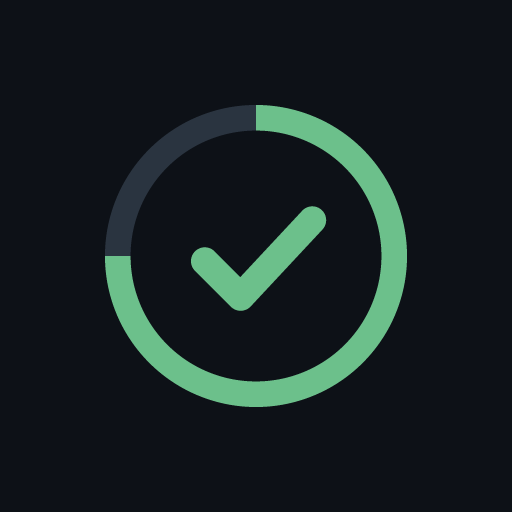
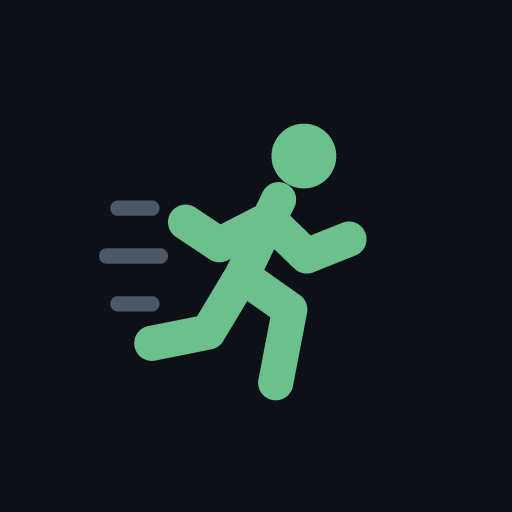
Reconnexion Campus depuis un téléphone (favori) et icône coureur (D141)

Changed region(s): [[0.1875, 0.1875, 0.8125, 0.8125]]

diff --git a/web/src/data/Data.tsx b/web/src/data/Data.tsx
@@ -194,12 +194,45 @@ const CAMPUS_SNIPPET =
   "localStorage.removeItem('atk');localStorage.removeItem('rtk');location.replace('about:blank')";
 
 /**
- * Reconnexion Campus depuis n'importe quel navigateur, sans script (D133) : session dédiée ouverte dans une
- * fenêtre privée (D117), jetons copiés par le snippet puis collés ici ; le serveur les vérifie avant de les garder.
+ * Même chose en favori pour un téléphone, qui n'a pas de console (D141) : le favori se lance depuis la barre
+ * d'adresse. Pas de copy() hors console : presse-papiers, sinon fenêtre où copier le texte à la main.
+ */
+const CAMPUS_BOOKMARKLET =
+  'javascript:(()=>{' +
+  "const t=JSON.stringify({atk:localStorage.getItem('atk'),rtk:localStorage.getItem('rtk')});" +
+  "if(!localStorage.getItem('atk')){alert('Connecte-toi d’abord à Campus sur cette page.');return}" +
+  "const fin=()=>{localStorage.removeItem('atk');localStorage.removeItem('rtk');location.replace('about:blank')};" +
+  "navigator.clipboard.writeText(t).then(()=>{alert('Jetons copiés : colle-les dans CoachChris.');fin()}," +
+  "()=>{prompt('Copie ce texte puis colle-le dans CoachChris :',t);fin()})})()";
+
+const isPhone = () => typeof matchMedia === 'function' && matchMedia('(pointer: coarse)').matches;
+
+function CopyButton({ text, label = 'Copier' }: { text: string; label?: string }) {
+  const [copied, setCopied] = useState(false);
+  return (
+    <button
+      className="btn small"
+      type="button"
+      onClick={() =>
+        void navigator.clipboard.writeText(text).then(
+          () => setCopied(true),
+          () => setCopied(false),
+        )
+      }
+    >
+      {copied ? 'Copié' : label}
+    </button>
+  );
+}
+
+/**
+ * Reconnexion Campus depuis n'importe quel navigateur, sans script (D133) : session dédiée (D117), jetons copiés
+ * par le snippet (ordinateur) ou le favori (téléphone, D141) puis collés ici ; le serveur les vérifie avant de
+ * les garder.
  */
 function CampusReconnect({ onDone }: { onDone: () => void }) {
   const [pasted, setPasted] = useState('');
-  const [copied, setCopied] = useState(false);
+  const [phone, setPhone] = useState(isPhone);
   const [state, setState] = useState<{ busy: boolean; ok?: boolean; message?: string }>({ busy: false });
   const send = async () => {
     setState({ busy: true });
@@ -217,66 +250,103 @@ function CampusReconnect({ onDone }: { onDone: () => void }) {
       setState({ busy: false, ok: false, message: e instanceof Error ? e.message : String(e) });
     }
   };
+  const campus = (
+    <a href="https://app.campus.coach" target="_blank" rel="noreferrer">
+      app.campus.coach
+    </a>
+  );
   return (
     <div className="reauth">
-      <ol>
-        <li>
-          Ouvre une <b>fenêtre de navigation privée</b> et connecte-toi sur{' '}
-          <a href="https://app.campus.coach" target="_blank" rel="noreferrer">
-            app.campus.coach
-          </a>
-          .
-        </li>
-        <li>
-          Dans cette fenêtre, ouvre la console (F12 › Console) et colles-y cette ligne. Elle copie tes jetons,
-          les retire de la page et quitte Campus (page blanche) :
-          <div className="cmd">
-            <code>{CAMPUS_SNIPPET}</code>
-            <button
-              className="btn small"
-              type="button"
-              onClick={() =>
-                void navigator.clipboard.writeText(CAMPUS_SNIPPET).then(
-                  () => setCopied(true),
-                  () => setCopied(false),
-                )
-              }
-            >
-              {copied ? 'Copié' : 'Copier'}
-            </button>
-          </div>
-        </li>
-        <li>
-          Ferme la fenêtre privée <b>sans te déconnecter</b> de Campus, puis colle ici (rien ne s’affiche) :
-          <div className="cmd">
-            <input
-              type="password"
-              aria-label="Jetons Campus copiés"
-              autoComplete="off"
-              spellCheck={false}
-              value={pasted}
-              onChange={(e) => setPasted(e.target.value)}
-            />
-            <button
-              className="btn small primary"
-              type="button"
-              disabled={!pasted || state.busy}
-              onClick={() => void send()}
-            >
-              {state.busy ? 'Vérification…' : 'Reconnecter'}
-            </button>
-          </div>
-        </li>
-      </ol>
+      <div className="seg" role="group" aria-label="Appareil">
+        <button type="button" aria-pressed={!phone} onClick={() => setPhone(false)}>
+          Ordinateur
+        </button>
+        <button type="button" aria-pressed={phone} onClick={() => setPhone(true)}>
+          Téléphone
+        </button>
+      </div>
+      {phone ? (
+        <ol>
+          <li>
+            <b>Une seule fois</b> : crée un favori « cc-campus » dont l’adresse est ce code. Copie-le, puis
+            dans Chrome : ⋮ › ☆ (sur n’importe quelle page) › Modifier › nom <code>cc-campus</code>, adresse :
+            colle le code.
+            <div>
+              <CopyButton text={CAMPUS_BOOKMARKLET} label="Copier le code du favori" />
+            </div>
+          </li>
+          <li>Dans Chrome (onglet privé de préférence), ouvre {campus} et connecte-toi.</li>
+          <li>
+            Sur la page Campus, tape <code>cc-campus</code> dans la barre d’adresse et touche le favori
+            proposé. Il copie tes jetons, les retire de la page et quitte Campus.
+          </li>
+          <li>
+            Reviens ici, appuie longuement dans le champ › Coller (rien ne s’affiche) :
+            <PasteField pasted={pasted} setPasted={setPasted} busy={state.busy} onSend={() => void send()} />
+          </li>
+        </ol>
+      ) : (
+        <ol>
+          <li>
+            Ouvre une <b>fenêtre de navigation privée</b> et connecte-toi sur {campus}.
+          </li>
+          <li>
+            Dans cette fenêtre, ouvre la console (F12 › Console) et colles-y cette ligne. Elle copie tes
+            jetons, les retire de la page et quitte Campus (page blanche) :
+            <div className="cmd">
+              <code>{CAMPUS_SNIPPET}</code>
+              <CopyButton text={CAMPUS_SNIPPET} />
+            </div>
+          </li>
+          <li>
+            Ferme la fenêtre privée <b>sans te déconnecter</b> de Campus, puis colle ici (rien ne s’affiche) :
+            <PasteField pasted={pasted} setPasted={setPasted} busy={state.busy} onSend={() => void send()} />
+          </li>
+        </ol>
+      )}
       {state.message && (
         <p className={state.ok ? 'cf-ok' : 'cf-err'} role="status">
           {state.message}
         </p>
       )}
       <small className="muted">
-        Les jetons ne sont ni affichés ni journalisés. Sur ton PC,{' '}
-        <code>{String.raw`.\reauth.ps1 -Source campus`}</code> fait la même chose.
+        Les jetons ne sont ni affichés ni journalisés. Ne te déconnecte pas de Campus sur cette page : cela
+        révoquerait les jetons copiés.
+        {!phone && (
+          <>
+            {' '}
+            Sur ton PC, <code>{String.raw`.\reauth.ps1 -Source campus`}</code> fait la même chose.
+          </>
+        )}
       </small>
+    </div>
+  );
+}
+
+function PasteField({
+  pasted,
+  setPasted,
+  busy,
+  onSend,
+}: {
+  pasted: string;
+  setPasted: (v: string) => void;
+  busy: boolean;
+  onSend: () => void;
+}) {
+  return (
+    <div className="cmd">
+      <input
+        type="password"
+        aria-label="Jetons Campus copiés"
+        autoComplete="off"
+        spellCheck={false}
+        value={pasted}
+        onChange={(e) => setPasted(e.target.value)}
+      />
+      <button className="btn small primary" type="button" disabled={!pasted || busy} onClick={onSend}>
+        {busy ? 'Vérification…' : 'Reconnecter'}
+      </button>
     </div>
   );
 }

diff --git a/web/src/data/Data.test.tsx b/web/src/data/Data.test.tsx
@@ -30,6 +30,9 @@ it('jeton Campus expiré : reconnexion depuis le navigateur, jetons collés envo
   const campus = screen.getByRole('heading', { name: 'Campus Coach' }).closest('article')!;
   expect(within(campus).getByText('Jeton expiré')).toBeTruthy();
   expect(within(campus).getByText(/location\.replace\('about:blank'\)/)).toBeTruthy();
+  // Téléphone : pas de console, un favori à copier ; le champ de collage reste le même.
+  fireEvent.click(within(campus).getByRole('button', { name: 'Téléphone' }));
+  expect(within(campus).getByRole('button', { name: 'Copier le code du favori' })).toBeTruthy();
   fireEvent.change(within(campus).getByLabelText('Jetons Campus copiés'), {
     target: { value: '{"atk":"a","rtk":"r"}' },
   });

diff --git a/DECISIONS.md b/DECISIONS.md
@@ -299,6 +299,7 @@ Maquette : https://claude.ai/artifact/Be7xmuX9zrK782vmzbzCX1 (artefact privé).
 - ✅ **D138 Ordre des cartes d'Aujourd'hui** (choix de l'utilisateur, remplace l'ordre de D51 et la grille de D137) : 1 Forme ce matin, 2 Cette semaine, 3 Objectif en cours, 4 Volume de la semaine, 5 Mobilité, 6 Signaux ; en grand écran, largeurs **alternées** pour casser la symétrie (retour utilisateur « trop symétrique ») : Forme 7/12 + Semaine 5/12, Objectif 5/12 + Volume 7/12, Mobilité 7/12 + Signaux 5/12 ; sur téléphone, une carte sous l'autre dans cet ordre (validé par l'utilisateur). La carte Forme s'adapte à sa largeur (requête de conteneur) pour garder poids et récupération sur une ligne.
 - ✅ **D139 Signaux, Forme et prochaine séance** (retours utilisateur du 09/10) : la carte Signaux ajoute une liste « Surveillé » (VFC moyenne 7 nuits, volume course vs repère, placement des séances, activités hors plan) avec ✓ / ! / — ; « — » = pas de donnée ou pas de repère, jamais un état supposé. Calculé côté écran à partir des données déjà servies. Poids et récupération : valeurs centrées, titres restés à gauche. Dans « Cette semaine », la prochaine séance montre ses étapes à gauche et deux pictogrammes à droite (montre = envoyer/renvoyer, en couleur Garmin ; document = Détail, en couleur du texte ; tous deux en contour ; validé par l'utilisateur) ; la mention « prévue … » est retirée.
 - ✅ **D140 Rendu téléphone** (demande de l'utilisateur du 09/10, 6 points validés) : (1) app installable sur l'écran d'accueil (manifest, icône jauge + coche générée par `web/scripts/icons.mjs`, plein écran, barre d'état aux couleurs du thème, marges autour de l'encoche et de la barre d'accueil) ; (2) cibles tactiles ≥ ~40 px sur téléphone sans changer l'apparence (zone cliquable étendue) ; champs en 16 px pour éviter le zoom automatique d'iOS ; (3) auto-tests de Mobilité et (4) Fraîcheur des données en blocs empilés, Journal en deux lignes ; (5) prochaine séance : barre sans libellés + séance écrite en clair (« 4 × (4′ Lent + 1′ Marche) »), étiquette « prochaine » ; (6) titre « Volume (min) ». Rien ne change en grand écran. Le tableau des étapes du Détail de séance reste défilable horizontalement (8 colonnes).
+- ✅ **D141 Reconnexion Campus depuis un téléphone et icône coureur** (demandes de l'utilisateur du 09/10) : un téléphone n'a pas de console, donc le snippet de D133 devient un favori (bookmarklet) « cc-campus » lancé depuis la barre d'adresse sur app.campus.coach : il copie les jetons (presse-papiers, sinon fenêtre de copie manuelle), les retire de la page et quitte Campus ; on colle ensuite dans le même champ qu'à l'ordinateur. L'écran propose Ordinateur / Téléphone (téléphone par défaut sur écran tactile). Aucun mot de passe Campus n'est saisi ni stocké par CoachChris. Icône de l'app : coureur vert en pleine foulée avec traits de vitesse (remplace la jauge, jugée pas assez sportive).
 
 ## Actions en attente côté utilisateur
 
